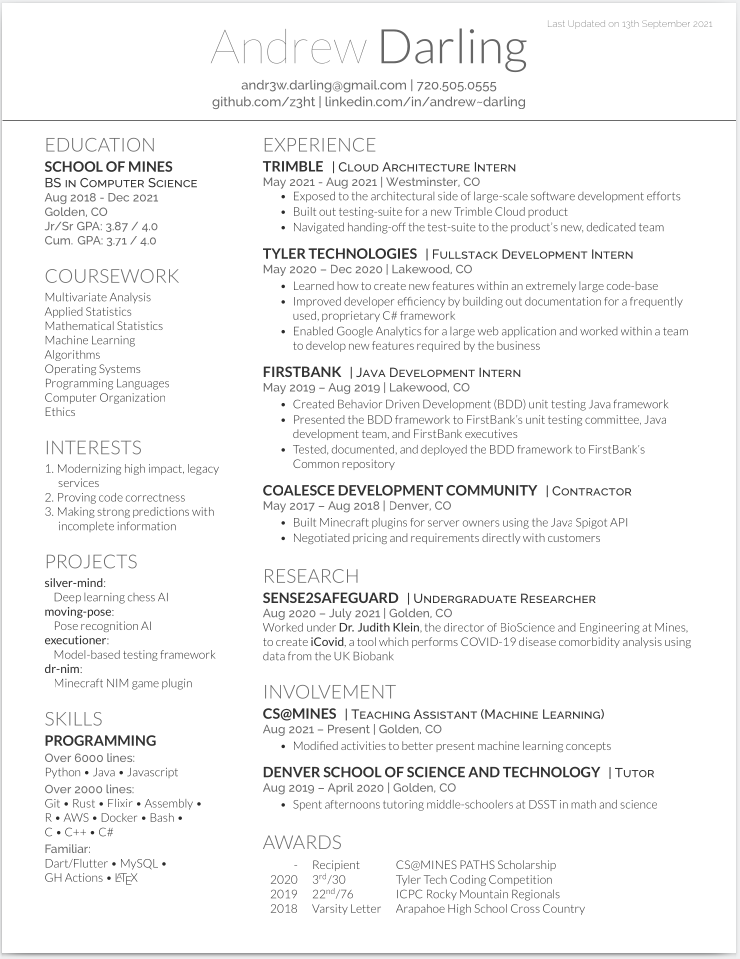
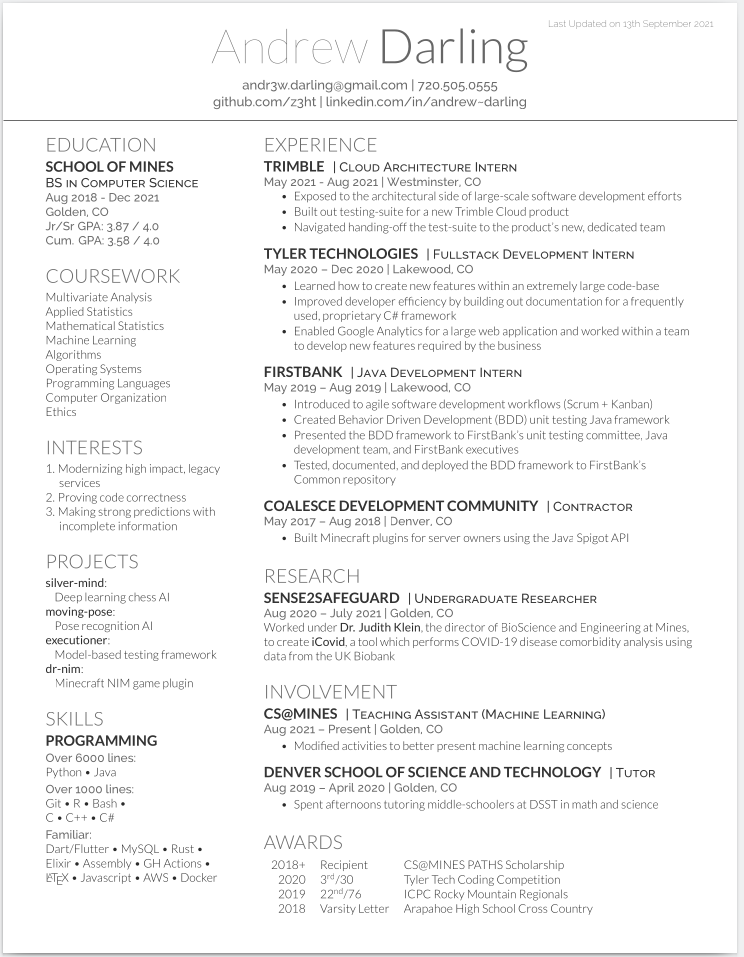
Fix errors

diff --git a/src/darling-resume-openfont.tex b/src/darling-resume-openfont.tex
@@ -76,7 +76,7 @@
 \descript{BS in Computer Science}
 \location{Aug 2018 - Dec 2021}
 \location{Golden, CO}
-\location{ Jr/Sr GPA: 3.87 / 4.0 \\ Cum. GPA: 3.71 / 4.0}
+\location{ Jr/Sr GPA: 3.87 / 4.0 \\ Cum. GPA: 3.58 / 4.0}
 \sectionsep
 
 %%%%%%%%%%%%%%%%%%%%%%%%%%%%%%%%%%%%%%
@@ -130,16 +130,16 @@ Ethics \\
 \subsection{Programming}
 \vspace*{0.5mm}
 \location{Over 6000 lines:}
-Python \textbullet{} Java \textbullet{} Javascript \\
+Python \textbullet{} Java \\
 \vspace*{0.75mm}
-\location{Over 2000 lines:}
-Git \textbullet{} Rust \textbullet{} Elixir \textbullet{} Assembly \textbullet{} \\
-R \textbullet{} AWS \textbullet{} Docker \textbullet{} Bash \textbullet{} \\
+\location{Over 1000 lines:}
+Git \textbullet{} R \textbullet{} Bash \textbullet{} \\
 C \textbullet{} C++ \textbullet{} C\#{} \\
 \vspace*{0.75mm}
 \location{Familiar:}
-Dart/Flutter \textbullet{}  MySQL \textbullet{} \\
-GH Actions \textbullet{} \LaTeX\ \\
+Dart/Flutter \textbullet{}  MySQL \textbullet{} Rust \textbullet{} \\
+ Elixir \textbullet{} Assembly \textbullet{} GH Actions \textbullet{} \\
+\LaTeX\ \textbullet{} Javascript \textbullet{} AWS \textbullet{} Docker \\
 \sectionsep
 
 %%%%%%%%%%%%%%%%%%%%%%%%%%%%%%%%%%%%%%
@@ -182,6 +182,7 @@ GH Actions \textbullet{} \LaTeX\ \\
 \descript{| Java Development Intern }
 \location{May 2019 – Aug 2019 | Lakewood, CO}
 \begin{tightemize}
+\item Introduced to agile software development workflows (Scrum + Kanban)
 \item Created Behavior Driven Development (BDD) unit testing Java framework
 \item Presented the BDD framework to FirstBank's unit testing committee, Java development team, and FirstBank executives
 \item Tested, documented, and deployed the BDD framework to FirstBank's Common repository
@@ -193,7 +194,6 @@ GH Actions \textbullet{} \LaTeX\ \\
 \location{May 2017 – Aug 2018 | Denver, CO}
 \begin{tightemize}
 \item Built Minecraft plugins for server owners using the Java Spigot API
-\item Negotiated pricing and requirements directly with customers
 \end{tightemize}
 \sectionsep
 
@@ -236,7 +236,7 @@ Worked under \textbf{\href{https://chemistry.mines.edu/project/klein-seetharaman
 
 \section{Awards}
 \begin{tabular}{rll}
-- & Recipient & CS@MINES PATHS Scholarship \\
+2018+ & Recipient & CS@MINES PATHS Scholarship \\
 2020 & 3\textsuperscript{rd}/30 & Tyler Tech Coding Competition \\
 2019 & 22\textsuperscript{nd}/76 & ICPC Rocky Mountain Regionals \\
 2018 & Varsity Letter & Arapahoe High School Cross Country \\
